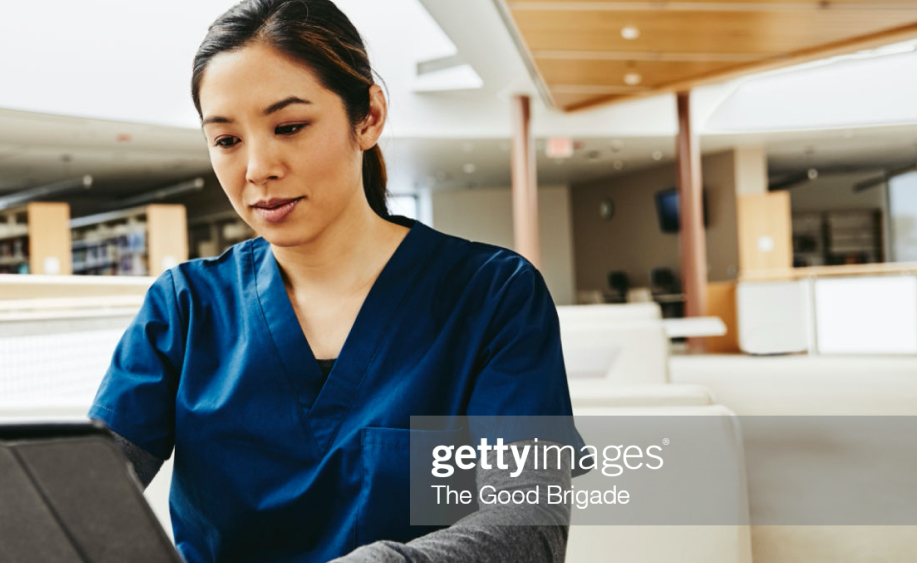
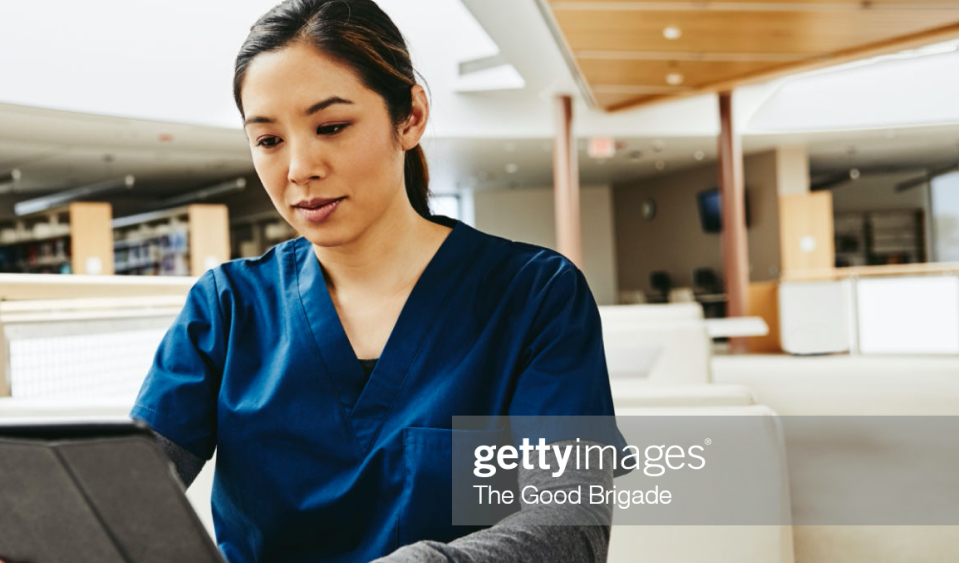
hero section pixel perfect desktop

diff --git a/css/main.css b/css/main.css
@@ -73,13 +73,12 @@
 }
 
 .hero-content-container {
-    max-width: 700px;
+    max-width: 782px;
     margin-left: auto;
     padding: 10px;
 }
 
 @media screen and (min-width : 1023px) {
-
     .hero-column-right {
         position: relative;
         flex: 1;
@@ -88,8 +87,6 @@
     .hero-column-left {
         position: relative;
         flex: 1;
-        display: flex;
-        align-items: center;
     }
 
     .hero-column-left::before {
@@ -97,21 +94,27 @@
         position: absolute;
         background-color: #172933;
         border-radius: 100%;
-        top: -400px;
-        bottom: -400px;
-        left: -200px;
-        right: -100px;
+        width: 3465px;
+        height: 3465px;
+        top: 50%;
+        transform: translateY(-50%);
+        right: -76px;
+    }
+
+    .hero-column-right img {
+        margin-left: 14px;
     }
 
     .hero-column-left::after {
         content: "";
         position: absolute;
         border-radius: 100%;
-        top: -400px;
-        bottom: -400px;
-        left: -200px;
-        right: -130px;
-        border: 30px solid rgba(255, 255, 255, 30%);
+        width: 3465px;
+        height: 3465px;
+        top: 50%;
+        transform: translateY(-50%);
+        right: -121px;
+        border: 46px solid rgba(255, 255, 255, 30%);
     }
 
     .hero-column-wrapper {
@@ -130,6 +133,13 @@
     .hero-heading {
         font-size: var(--fs-64);
         line-height: 74px;
+        padding-bottom: 41px;
+        margin-bottom: 12px;
+    }
+
+    .hero-heading::after {
+        width: 80px;
+        height: 5px;
     }
 
     .hero-column-right::after {
@@ -139,6 +149,7 @@
     .hero-content-body {
         position: relative;
         z-index: 4;
+        margin-top: 128px;
     }
 }
 

diff --git a/css/header.css b/css/header.css
@@ -1,5 +1,5 @@
 :root{
-    --topbar-items-spacing-x: 56px;
+    --topbar-items-spacing-x: 57px;
     --topbar-spacing-y: 6px;
     --topbar-height: 48px;
 
@@ -9,10 +9,10 @@
 
     --desktop-navigation-item-height: var(--navbar-height);
 
-    --desktop-navigation-spacing-x: 50px;
+    --desktop-navigation-spacing-x: 59px;
 
 
-    --button-primary-padding-x: 24px;
+    --button-primary-padding-x: 36px;
     --button-primary-rounding: 10px;
     --button-primary-height: 60px;
 
@@ -41,6 +41,14 @@ header {
     position: relative;
 }
 
+header .desktop-navigation-link{
+    margin-top: -10px;
+}
+
+header .desktop-navigation{
+    column-gap: var(--desktop-navigation-spacing-x);
+}
+
 .topbar {
     display: flex;
     align-items: center;
@@ -59,8 +67,13 @@ header {
 .topbar-navigation-link {
     font-size: var(--fs-13);
     color: var(--color-white);
-    font-weight: 600;
+    font-weight: 500;
     text-transform: uppercase;
+    line-height: 3;
+}
+
+.topbar-navigation-button img{
+    margin-top: 5px;
 }
 
 .topbar-navigation-item {
@@ -178,8 +191,10 @@ header {
 /* Navbar */
 
 .logo {
-    max-width: 176px;
+    max-width: 190px;
     width: 100%;
+    margin-left: 15px;
+    margin-top: 5px;
 }
 
 
@@ -211,9 +226,9 @@ header {
     width: 30px;
 }
 
-.desktop-navigation {
+/* .desktop-navigation {
     column-gap: var(--desktop-navigation-spacing-x);
-}
+} */
 
 .desktop-navigation-link {
     font-size: var(--fs-18);
@@ -444,6 +459,7 @@ header {
 
     .logo {
         max-width: 100px;
+        margin: 0px;
     }
 
     .dropdown{

diff --git a/css/style.css b/css/style.css
@@ -26,8 +26,7 @@
 
     --container-spacing-x: 15px;
 
-    --outer-container-width: calc(1560px + var(--container-spacing-x));
-    --inner-container-width: calc(1170px + var(--container-spacing-x));
+    --container-width : 1214px;
 }
 
 * {
@@ -72,14 +71,7 @@ header{
     width: 100%;
     padding-left: var(--container-spacing-x);
     padding-right: var(--container-spacing-x);
-}
-
-.outer-container {
-    max-width: var(--outer-container-width);
-}
-
-.inner-container {
-    max-width: var(--inner-container-width);
+    max-width: var(--container-width); 
 }
 
 /* Utility */
